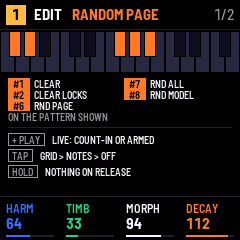
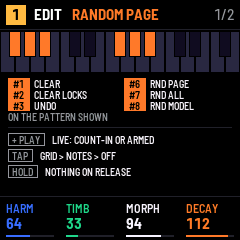
UNDO: REC held, black key 3 puts back the last CLEAR, CLEAR LOCKS, draw or paste; again redoes it; a SAVE ends it

diff --git a/app/ui.c b/app/ui.c
@@ -220,6 +220,7 @@ static struct {
     int rnd_kind;                              /* the message: 1 RANDOM PAGE, 2 RANDOM ALL, 3 RANDOM MODEL */
     uint32_t copy_until;                       /* SEQ held, black keys 1-4: copy_kind's message shown until then */
     int copy_kind, paste_key;                  /* COPY_*; paste_key: the paste armed (1: black key 2, 3: black key 4), 0 none */
+    int undo, undo_track, undo_pat, undone;    /* UNDO_* kept in chunk_buf, 0 none; for which pattern; undone: the next swap redoes */
     uint32_t tap_ms[4], tap_until;             /* TAP TEMPO: the last taps' times (ntap of them); its message until tap_until */
     int ntap;
     uint32_t down_ms[NB], used;                /* when each button went down; used: bit b, a key or button came while b was held */
@@ -1077,9 +1078,11 @@ static void pattern_set(int n)
 
 /* SEQ held, black keys 1-4: copy the pattern shown, paste it there, copy the track's sound (a KIT: its pads too),
    paste it. A paste replaces what is there: it asks for a second press. The clipboards stay till power-off */
-enum { COPY_PAT = 1, COPY_AGAIN, COPY_PAT_PASTED, COPY_SND, COPY_SND_PASTED, COPY_NONE };
-static const char *const COPY_NAME[COPY_NONE] = {"PATTERN COPIED", "AGAIN: PASTE", "PATTERN PASTED", "SOUND COPIED",
-                                                  "SOUND PASTED", "NOTHING COPIED"};   /* COPY_* - 1 */
+enum { COPY_PAT = 1, COPY_AGAIN, COPY_PAT_PASTED, COPY_SND, COPY_SND_PASTED, COPY_NONE, COPY_UNDONE, COPY_REDONE,
+       COPY_NO_UNDO, COPY_N };          /* (the header's messages for the copies and UNDO) */
+static const char *const COPY_NAME[COPY_N - 1] = {"PATTERN COPIED", "AGAIN: PASTE", "PATTERN PASTED", "SOUND COPIED",
+                                                   "SOUND PASTED", "NOTHING COPIED", "UNDONE", "REDONE",
+                                                   "NOTHING TO UNDO"};   /* COPY_* - 1 */
 static struct { q_pattern pat; q_sound snd; q_pad pads[Q_PADS]; uint8_t has_pat, has_snd; } clip;   /* (.bss: the pool
                                                                          keeps its 4 KB spare, fm1.toml pool_spare) */
 
@@ -1087,6 +1090,69 @@ static void copy_msg(int kind, uint32_t ms)
 {
     ui.copy_kind = kind;
     ui.copy_until = plat_ms() + ms;
+}
+
+/* UNDO (REC held, black key 3): the last CLEAR, CLEAR LOCKS, RANDOM or PASTE put back, by swapping the copy taken
+   before it with what is there now; again: done again. The copy lives in store.c's chunk_buf, idle between a load and a
+   save: a SAVE ends the UNDO, and a load or a restore starts the interface again (ui_init) */
+enum { UNDO_PAT = 1, UNDO_SND, UNDO_GLO };
+static const uint8_t UNDO_GLO_OFF[] = {   /* the settings RANDOM draws on GLO (not TEMPO) */
+    __builtin_offsetof(q_project, swing), __builtin_offsetof(q_project, tonic), __builtin_offsetof(q_project, mode),
+    __builtin_offsetof(q_project, quant), __builtin_offsetof(q_project, click), __builtin_offsetof(q_project, keys),
+    __builtin_offsetof(q_project, dtime), __builtin_offsetof(q_project, dfb), __builtin_offsetof(q_project, rsize),
+    __builtin_offsetof(q_project, rtone), __builtin_offsetof(q_project, comp), __builtin_offsetof(q_project, duck)};
+_Static_assert(sizeof(q_pattern) <= PLAT_STORE_MAX && sizeof(q_sound) + sizeof(q_pad[Q_PADS]) <= PLAT_STORE_MAX,
+               "UNDO's copy fits chunk_buf");
+
+static void swap_bytes(uint8_t *a, uint8_t *b, uint32_t n)
+{
+    while (n--) {
+        uint8_t c = *a;
+        *a++ = *b, *b++ = c;
+    }
+}
+
+/* the copy before an action that UNDO puts back; kind: UNDO_*, of the track and pattern shown */
+static void undo_keep(int kind)
+{
+    uint32_t i;
+    ui.undo = kind, ui.undo_track = ui.track, ui.undo_pat = ui.p->pattern[ui.track], ui.undone = 0;
+    if (kind == UNDO_PAT) {
+        __builtin_memcpy(chunk_buf, pat(), sizeof(q_pattern));
+    } else if (kind == UNDO_SND) {
+        __builtin_memcpy(chunk_buf, &ui.p->sound[ui.track], sizeof(q_sound));
+        __builtin_memcpy(chunk_buf + sizeof(q_sound), ui.p->kit[ui.track], sizeof(q_pad[Q_PADS]));
+    } else {
+        for (i = 0; i < sizeof UNDO_GLO_OFF; i++)
+            chunk_buf[i] = ((const uint8_t *)ui.p)[UNDO_GLO_OFF[i]];
+    }
+}
+
+static void undo_swap(void)
+{
+    uint32_t i;
+    int t = ui.undo_track;
+    if (!ui.undo) {
+        copy_msg(COPY_NO_UNDO, MSG_MS);
+        return;
+    }
+    if (ui.undo == UNDO_PAT) {
+        if (ui.rec == R_LISTEN)
+            rec_set(R_OFF);             /* LISTEN writes its phrase into the pattern shown */
+        swap_bytes(chunk_buf, (uint8_t *)&ui.p->pat[t][ui.undo_pat], sizeof(q_pattern));
+        if (t == ui.track && ui.undo_pat == ui.p->pattern[t])
+            pattern_set(ui.undo_pat);   /* the hold, the selection, the cursor: as for another pattern */
+    } else if (ui.undo == UNDO_SND) {
+        swap_bytes(chunk_buf, (uint8_t *)&ui.p->sound[t], sizeof(q_sound));
+        swap_bytes(chunk_buf + sizeof(q_sound), (uint8_t *)ui.p->kit[t], sizeof(q_pad[Q_PADS]));
+        audio_track_model(t);           /* the render takes the model from the sound */
+    } else {
+        for (i = 0; i < sizeof UNDO_GLO_OFF; i++)
+            swap_bytes(chunk_buf + i, (uint8_t *)ui.p + UNDO_GLO_OFF[i], 1);
+    }
+    ui.undone = !ui.undone;
+    ui.dirty = 1;
+    copy_msg(ui.undone ? COPY_UNDONE : COPY_REDONE, MSG_MS);
 }
 
 static void copy_key(int b)
@@ -1112,6 +1178,7 @@ static void copy_key(int b)
     case 1:
         if (ui.rec == R_LISTEN)
             rec_set(R_OFF);             /* LISTEN writes its phrase into the pattern shown */
+        undo_keep(UNDO_PAT);
         *t = clip.pat;
         poly_for_src(t->src);           /* as SOURCE does */
         pattern_set(ui.p->pattern[ui.track]);  /* the hold, the selection, the cursor: as for another pattern */
@@ -1124,6 +1191,7 @@ static void copy_key(int b)
         copy_msg(COPY_SND, MSG_MS);
         return;
     default:
+        undo_keep(UNDO_SND);
         ui.p->sound[ui.track] = clip.snd;
         __builtin_memcpy(ui.p->kit[ui.track], clip.pads, sizeof clip.pads);
         audio_track_model(ui.track);    /* the render takes the model from the sound */
@@ -1389,6 +1457,7 @@ static void save_release(void)
         ui.msg_until = plat_ms() + MSG_MS;
     else if (!save_held && store_save(ui.p) == 0)
         ui.dirty = 0;
+    ui.undo = 0;                        /* (a save writes through chunk_buf, UNDO's copy) */
 }
 
 /* backup and restore over USB (fm1-base device/backup.c) */
@@ -1398,6 +1467,7 @@ void app_backup_flush(void)             /* stopped, a backup starts: what change
 {
     if (ui.dirty && store_save(ui.p) == 0)
         ui.dirty = 0;
+    ui.undo = 0;                        /* (a save writes through chunk_buf, UNDO's copy) */
 }
 void app_backup_hold(int on) { save_held = (uint8_t)on; }
 
@@ -1657,6 +1727,7 @@ static void dice(int b)
     ui.rng ^= plat_ms() | 1u;
     if (!ui.rng)
         ui.rng = 1;
+    undo_keep(b == 7 || (ui.domain != D_SEQ && ui.domain != D_GLO) ? UNDO_SND : ui.domain == D_SEQ ? UNDO_PAT : UNDO_GLO);
     if (b == 5 && ui.domain == D_SEQ && pat()->src == SRC_STEP && (knob_page() == P_STEPS || knob_page() == P_XY)) {
         dice_steps(ui.spage * 16, ui.spage * 16 + 16);   /* the grid's page of steps shown */
     } else if (b == 5) {
@@ -1754,8 +1825,14 @@ static void key_down(int k)
                 dice(b);
             return;
         }
+        if (k == BLACK[2]) {            /* UNDO: armed too */
+            undo_swap();
+            return;
+        }
         if (ui.rec == R_ARM)            /* (armed: nothing, the first note comes once REC is let go) */
             return;
+        if (k == BLACK[0] || k == BLACK[1])
+            undo_keep(UNDO_PAT);
         if (k == BLACK[0])
             for (i = 0; i < Q_STEPS; i++)
                 step_clear(t, i);
@@ -2259,8 +2336,8 @@ static uint32_t layer_keys(int b)
             keys |= 1u << WHITE[i];
         return keys;
     case B_REC:
-        if (ui.rec != R_LIVE) {         /* CLEAR, CLEAR LOCKS, and RANDOM's keys where they act */
-            keys = 1u << BLACK[0] | 1u << BLACK[1];
+        if (ui.rec != R_LIVE) {         /* CLEAR, CLEAR LOCKS, UNDO, and RANDOM's keys where they act */
+            keys = 1u << BLACK[0] | 1u << BLACK[1] | 1u << BLACK[2];
             for (i = 5; i < 8; i++)
                 keys |= (uint32_t)dice_on(i) << BLACK[i];
             return keys;
@@ -3105,6 +3182,7 @@ static void draw_layer(const q_view *v, int32_t oy)
         } else {
             tags[n] = "#1", names[n++] = "CLEAR";
             tags[n] = "#2", names[n++] = "CLEAR LOCKS";
+            tags[n] = "#3", names[n++] = "UNDO";
             for (i = 0; i < 3; i++)     /* RANDOM's keys lit (layer_keys) */
                 if (v->scene.lkeys >> BLACK[5 + i] & 1u)
                     tags[n] = RND_TAG[i], names[n++] = RND_NAME[i];

diff --git a/app/project.h b/app/project.h
@@ -135,5 +135,6 @@ typedef struct {
 void project_defaults(q_project *p);
 int store_load(q_project *p);         /* 0 = loaded; else project_defaults and -1 */
 int store_save(const q_project *p);   /* 0 = ok; -1 = refused while playing; else plat_store_save's code */
+extern uint8_t chunk_buf[];           /* store.c's: one chunk, idle between a load and a save (ui.c's UNDO keeps its copy there) */
 
 #endif

diff --git a/app/docs/sequencer.md b/app/docs/sequencer.md
@@ -188,17 +188,21 @@ REC (short) disarms and the pattern keeps playing. PLAY stops and disarms.
 
 ## REC held
 
-![REC held: #1 CLEAR, #2 CLEAR LOCKS on the pattern shown, #6 RND PAGE, #7 RND ALL, + PLAY for LIVE, TAP for GRID > NOTES > OFF](img/seq-rec-map.png "REC's map")
+![REC held: #1 CLEAR, #2 CLEAR LOCKS on the pattern shown, #3 UNDO, #6 RND PAGE, #7 RND ALL, + PLAY for LIVE, TAP for GRID > NOTES > OFF](img/seq-rec-map.png "REC's map")
 
 | REC held + | Not in LIVE or ARM | In LIVE |
 | --- | --- | --- |
 | PLAY | LIVE, with the count-in or armed | — |
 | black key 1 | CLEAR: empties the pattern shown | — |
 | black key 2 | CLEAR LOCKS: removes its p-locks | — |
+| black key 3 | UNDO: the last CLEAR, CLEAR LOCKS, draw or paste put back; again, done again | — |
 | keys | — | erase their notes as the pattern crosses them |
 | OCT- | — | clears every step crossed |
 
-A CLEAR cannot be undone.
+UNDO puts back what the last CLEAR, CLEAR LOCKS, draw (black keys 6–8) or paste (SEQ held, black keys 2 and 4)
+changed: the pattern, the track's sound and pads, or GLO's settings, as they were just before. The header says
+`UNDONE`; press again for `REDONE`, and so on. It keeps one action only, the last, and what you changed by hand since
+that action goes back with it. A SAVE ends it: then the header says `NOTHING TO UNDO`.
 
 ## Random
 
@@ -238,7 +242,8 @@ In SEQ, black key 7 also draws the source's content:
 - CADENCE: the 8 chords. LATTICE: the 8 steps. MOONS: every moon. LOOM: every cell of every lane.
 
 The other sources have only their knobs. The keys do nothing (unlit on the map) in LIVE, where REC held erases notes;
-with a step, a selection or a cell held, where the knobs set those; on HOME. A draw cannot be undone.
+with a step, a selection or a cell held, where the knobs set those; on HOME. Black key 3, REC still held, undoes a draw
+([REC held](#rec-held)).
 
 ## Recipes
 

diff --git a/app/docs/MANUAL.md b/app/docs/MANUAL.md
@@ -138,7 +138,7 @@ left, as the screen numbers them.
 
 Messages show in the header for a moment: `STOP TO SAVE` (SAVE while playing), `LOCKS FULL` (no room for another
 p-lock in the pattern), `AGAIN: ERASE` (press again to start a new project), `AGAIN: PASTE` (press again to paste),
-`PATTERN COPIED` and the other copies' (section 5), `TAP 120` (the tempo just tapped), or the name of a punch-in.
+`PATTERN COPIED` and the other copies' (section 5), `UNDONE` and `REDONE` (REC held, black key 3), `TAP 120` (the tempo just tapped), or the name of a punch-in.
 
 ### Held buttons show their map
 
@@ -194,7 +194,7 @@ pattern's pages. While playing, the new pattern starts when the one playing reac
 shows `P1 > P2` meanwhile.
 
 To clear the pattern shown, hold REC and press black key 1. To remove only its p-locks, hold REC and press black key 2.
-Neither can be undone.
+Hold REC and press black key 3 to undo either ([REC held](sequencer.html#rec-held)).
 
 To copy a pattern, hold SEQ and press black key 1 (`PATTERN COPIED`): its steps, p-locks, LEN, DIV, PATH and the
 settings of every source. Then pick where it goes, another pattern or another track, hold SEQ and press black key 2
@@ -203,7 +203,7 @@ synth track sets its POLY to 3 at least, as SOURCE does.
 
 The same way, black key 3 copies the track's sound: its model, its EDIT, ENV, LFO and ARP settings, its insert, sends,
 pan and level, and on a KIT its 16 pads. Black key 4, pressed twice, pastes it on the track shown. What you copied
-stays until you turn the FM-1 off; a paste can't be undone.
+stays until you turn the FM-1 off. REC held and black key 3 undoes a paste.
 
 ### Scenes
 
